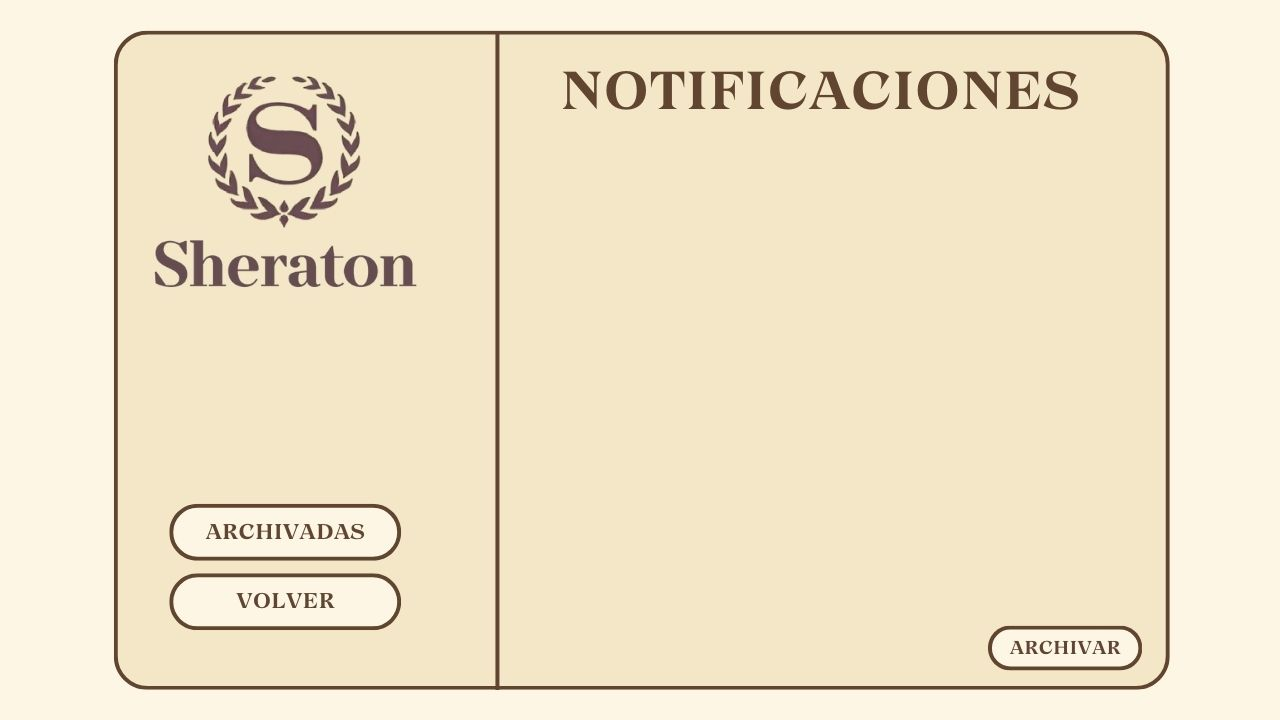
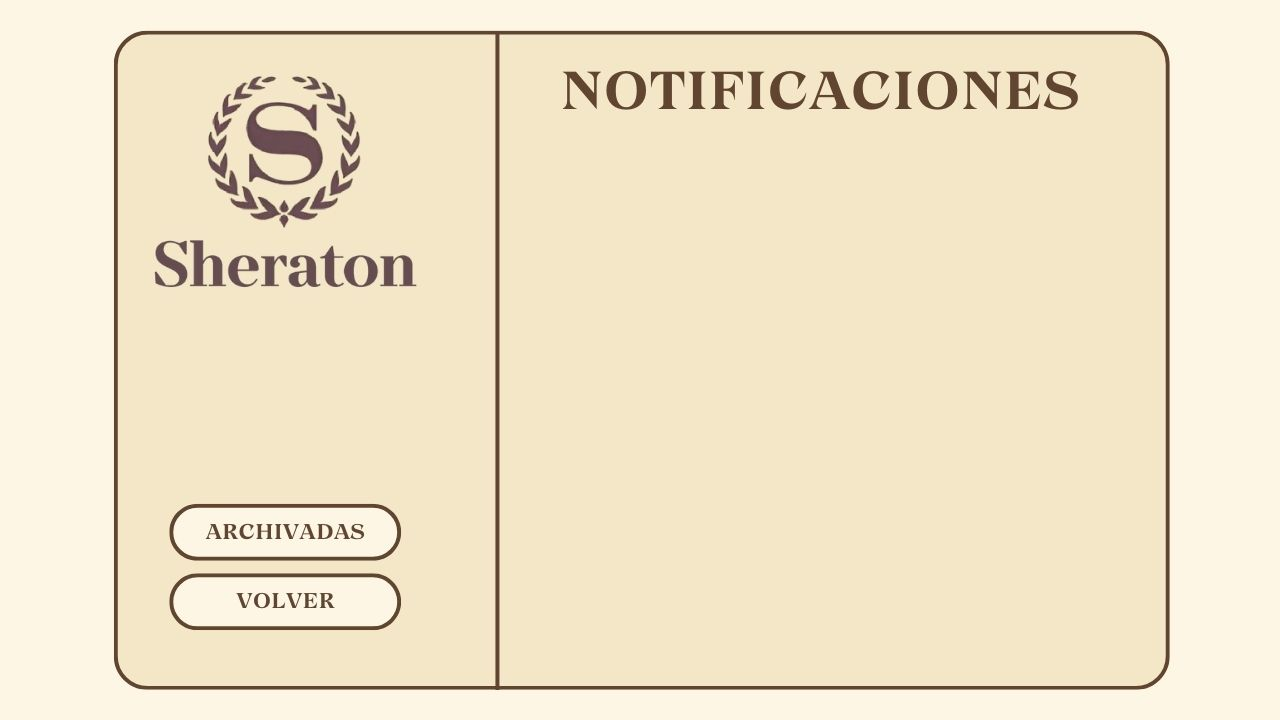
rfvc

Changed region(s): [[0.75, 0.8556, 0.9062, 0.9472]]

diff --git a/main2.py b/main2.py
@@ -581,12 +581,7 @@ def cursor(mouse_pos):
         elif mouse_pos[0] < 400 and mouse_pos[0] > 170 and mouse_pos[1] < 630 and mouse_pos[1] > 575: #volver
             pygame.mouse.set_cursor(pygame.SYSTEM_CURSOR_HAND)
         
-        elif mouse_pos[0] < 970 and mouse_pos[0] > 820 and mouse_pos[1] < 665 and mouse_pos[1] > 625: #archivar
-            pygame.mouse.set_cursor(pygame.SYSTEM_CURSOR_HAND)
-        
-        elif mouse_pos[0] < 1140 and mouse_pos[0] > 990 and mouse_pos[1] < 665 and mouse_pos[1] > 625: #fijar
-            pygame.mouse.set_cursor(pygame.SYSTEM_CURSOR_HAND)
-        
+
         else:
             pygame.mouse.set_cursor(pygame.SYSTEM_CURSOR_ARROW)
        
